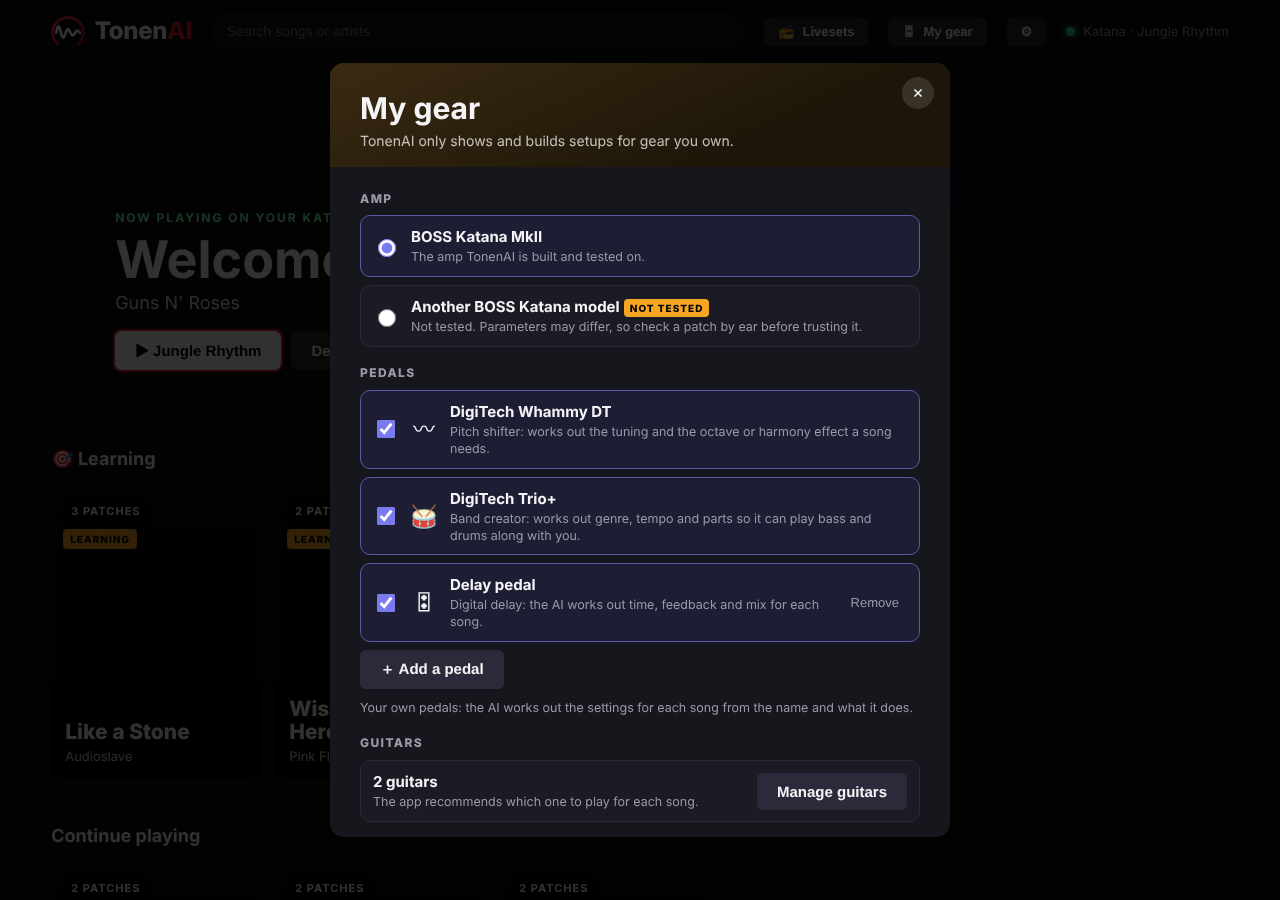
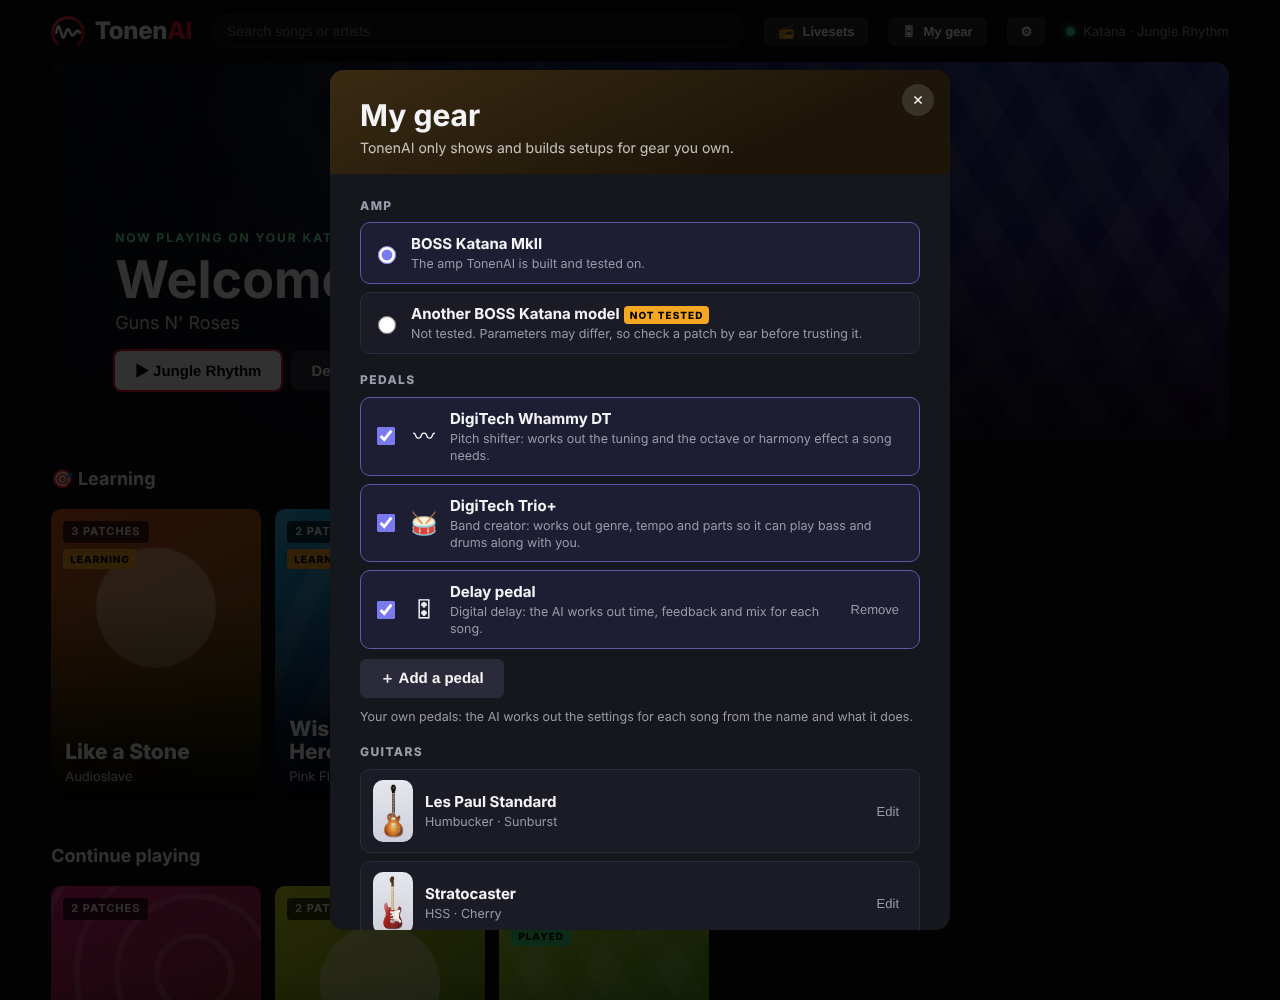
My gear: guitars listed first, with pictures and Edit/Add right there; the guitar editor returns to My gear
Claude-Session: https://claude.ai/code/session_01RxSADN1eK3yQDoSVV6n1DG

diff --git a/app/gear.js b/app/gear.js
@@ -1,6 +1,6 @@
 /* My gear: the amp and pedals you own. The song screen, the AI prompts and the generators follow this list.
    The catalog lives in gear/catalog.json; your own pedals are kept in data/rig.json with your choices. */
-let GADD = false;
+let GADD = false, GEAR_BACK = false;   // GEAR_BACK: the guitar editor was opened from here, so come back when it closes
 
 function openGear() { GADD = false; gearRender(); $("#gearmodal").classList.add("open"); }
 function gearClose() { $("#gearmodal").classList.remove("open"); }
@@ -26,17 +26,20 @@ function gearRender() {
         <input id="gr-about" maxlength="200" placeholder="${tx("What does it do? (delay, overdrive, looper…)")}" aria-label="${tx("What does it do? (delay, overdrive, looper…)")}">
         <div class="gr-btns"><button class="p" data-gradd="1">${tx("Add")}</button><button class="p ghost" data-grcancel="1">${tx("Cancel")}</button></div></div>`
     : `<button class="p ghost" data-gropen="1">${tx("＋ Add a pedal")}</button>`;
+  const guitarRows = GUITARS.map(g => `<div class="gr-row"><div class="gthumb">${guitarPic(g.kind, g.name, g.finish)}</div>
+    <span class="gr-t"><b>${esc(g.name)}</b><small>${[g.brand, PK[g.pickups] || g.pickups, fin(defFinish(g)).label].filter(Boolean).map(esc).join(" · ")}</small></span>
+    <button class="gr-rm" data-gredit="${esc(g.id)}">${tx("Edit")}</button></div>`).join("");
   $("#gearsheet").innerHTML = `<div class="gr">
     <div class="gr-head"><h3>${tx("My gear")}</h3><div class="sub">${tx("TonenAI only shows and builds setups for gear you own.")}</div>
       <button class="ls-x" data-grclose="1" aria-label="${tx("Close")}">×</button></div>
     <div class="gr-body">
-      <h4>${tx("Amp")}</h4>${ampRows}
-      ${amp && !amp.tested ? `<p class="gr-warn">${tx("Only the Katana MkII is tested. Check each patch by ear before you trust it on another amp.")}</p>` : ""}
+      <h4>${tx("Guitars")}</h4>${guitarRows}
+      <button class="p ghost" data-gradg="1">${tx("＋ Add guitar")}</button>
+      <p class="gr-note">${tx("The app recommends which one to play for each song.")}</p>
       <h4>${tx("Pedals")}</h4>${pedRows}${add}
       <p class="gr-note">${tx("Your own pedals: the AI works out the settings for each song from the name and what it does.")}</p>
-      <h4>${tx("Guitars")}</h4>
-      <div class="gr-row"><span class="gr-t"><b>${GUITARS.length ? tx("{0} guitars", GUITARS.length) : tx("No guitars yet")}</b><small>${tx("The app recommends which one to play for each song.")}</small></span>
-        <button class="p ghost" data-grguitars="1">${tx("Manage guitars")}</button></div>
+      <h4>${tx("Amp")}</h4>${ampRows}
+      ${amp && !amp.tested ? `<p class="gr-warn">${tx("Only the Katana MkII is tested. Check each patch by ear before you trust it on another amp.")}</p>` : ""}
     </div></div>`;
   if (GADD) { const n = $("#gr-name"); if (n) n.focus(); }
 }
@@ -54,7 +57,8 @@ document.getElementById("gearmodal").addEventListener("click", async e => {
   if (b.dataset.grclose) return gearClose();
   if (b.dataset.gropen) { GADD = true; return gearRender(); }
   if (b.dataset.grcancel) { GADD = false; return gearRender(); }
-  if (b.dataset.grguitars) { gearClose(); return openGuitars(); }
+  if (b.dataset.gredit) { gearClose(); GEAR_BACK = true; return openGuitars(b.dataset.gredit); }
+  if (b.dataset.gradg) { gearClose(); GEAR_BACK = true; openGuitars(); if (GM.view === "list") { GM = { view: "form", f: newGuitarState("Stratocaster") }; gmRender(); } return; }
   if (b.dataset.grm) {
     const id = b.dataset.grm;
     return gearSave({ pedals: GEAR.rig.pedals.filter(x => x !== id), custom: GEAR.pedals.filter(p => p.custom && p.id !== id).map(p => ({ id: p.id, name: p.name, about: p.about })) });

diff --git a/app/guitar-manager.js b/app/guitar-manager.js
@@ -45,6 +45,7 @@ function newGuitarState(kind) {
 function gmClose() {
   $("#gmodal").classList.remove("open");
   if (typeof SHEET !== "undefined" && SHEET && $("#modal").classList.contains("open")) openSong(SHEET);   // refresh the song's guitar ranking
+  if (typeof GEAR_BACK !== "undefined" && GEAR_BACK) { GEAR_BACK = false; openGear(); }   // opened from My gear: go back there
 }
 const fin = k => { const x = GUITAR_FINISHES.find(x => x.key === k) || GUITAR_FINISHES[0]; return { ...x, label: tx(x.label) }; };
 const suggestName = f => [f.brand.trim(), gtype(f.kind).w].filter(Boolean).join(" ");

diff --git a/app/gear.css b/app/gear.css
@@ -18,3 +18,4 @@
 .gr-form input { background: #0f0f15; border: 1px solid #34344a; color: var(--text); padding: 9px 11px; border-radius: 8px; font-size: 14px; } .gr-form input:focus { outline: none; border-color: #7a7af0; }
 .gr-btns { display: flex; gap: 8px; }
 .gr .p.ghost { background: #2a2a3a; }
+.gr-body > .p.ghost { margin-top: 2px; }
